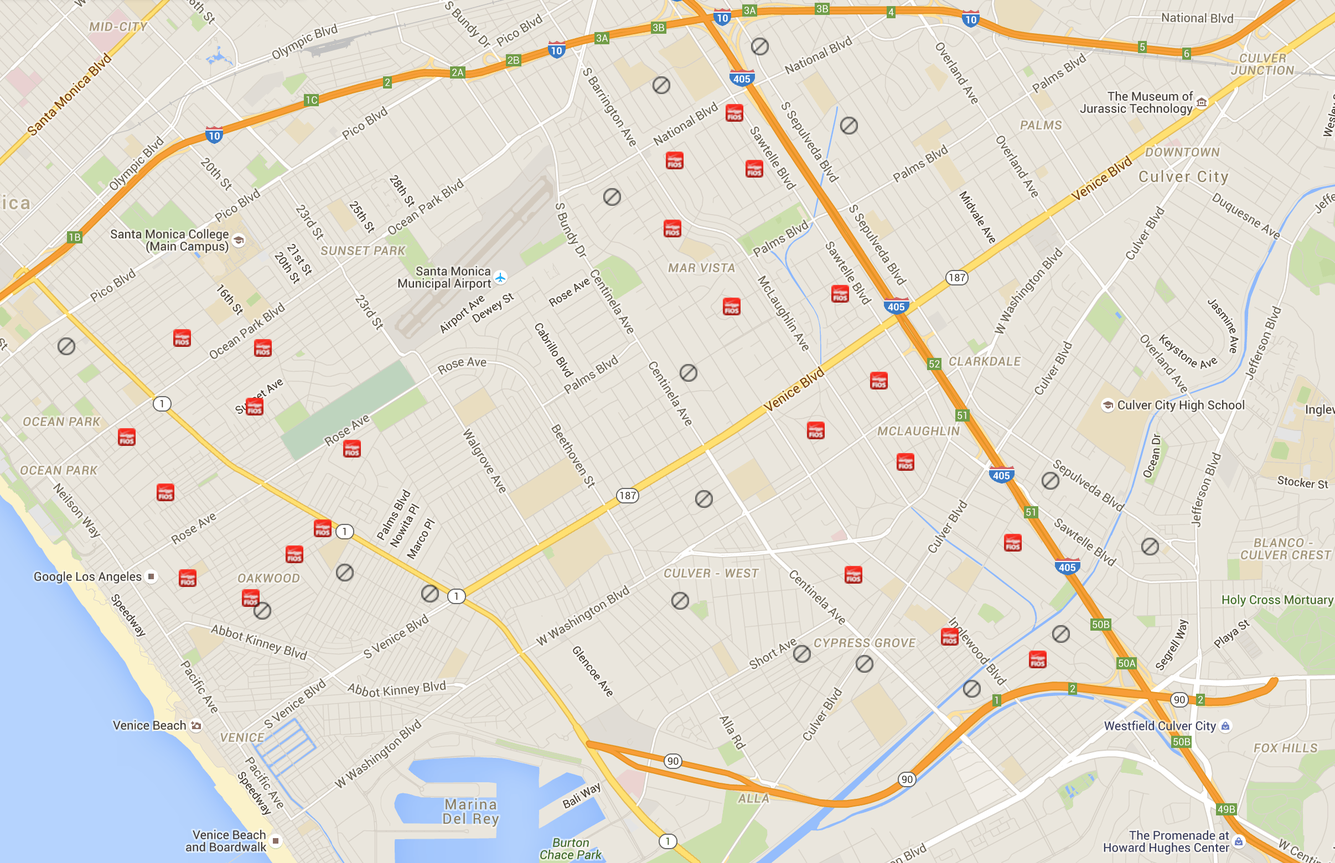
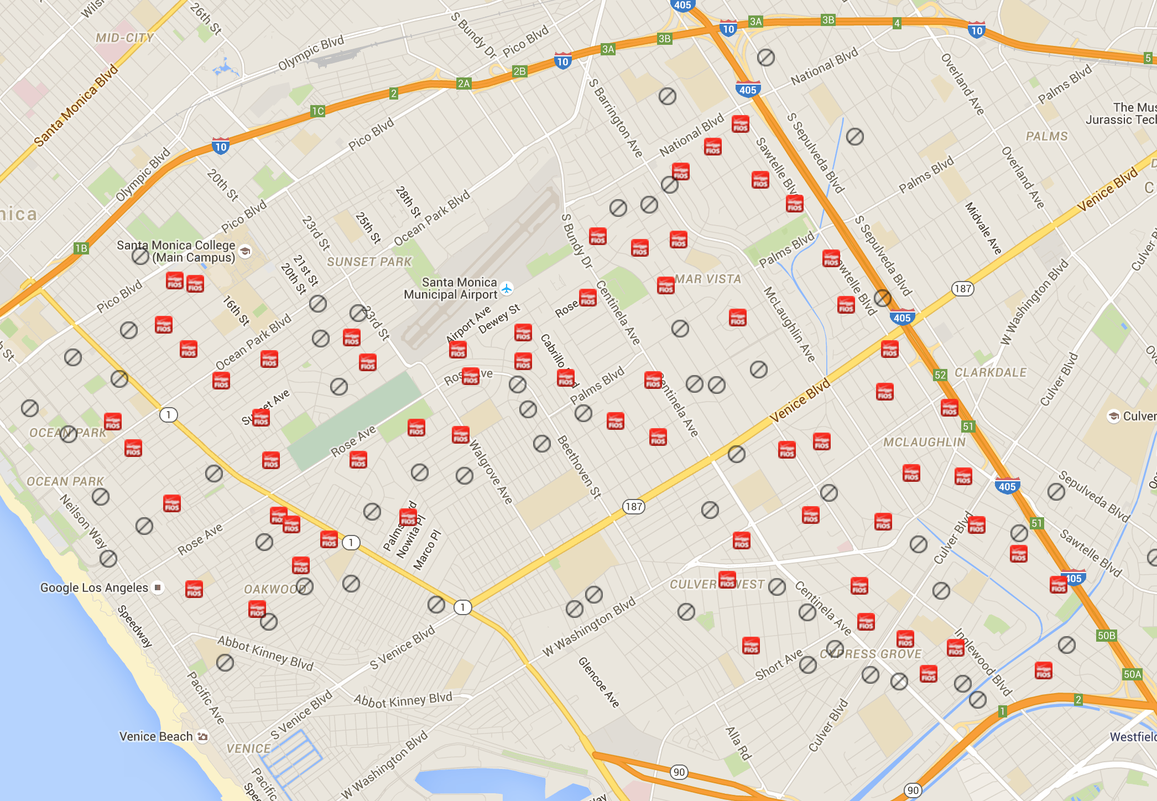
moar data

diff --git a/README.md b/README.md
@@ -3,6 +3,12 @@
 A [Phantom.js](http://phantomjs.org) webservice to check and map
 [Verizon FiOS availability](https://www.verizon.com/home/fiosavailability/).
 
+![Southern Californa](https://github.com/idiomatic/fioscheck/raw/master/site/southern_california.png)
+
+![Los Angeles](https://github.com/idiomatic/fioscheck/raw/master/site/los_angeles.png)
+
 ![Westside](https://github.com/idiomatic/fioscheck/raw/master/site/westside.png)
+
+![Redondo](https://github.com/idiomatic/fioscheck/raw/master/site/redondo.png)
 
 ![Long Beach and Orange](https://github.com/idiomatic/fioscheck/raw/master/site/long_beach.png)
